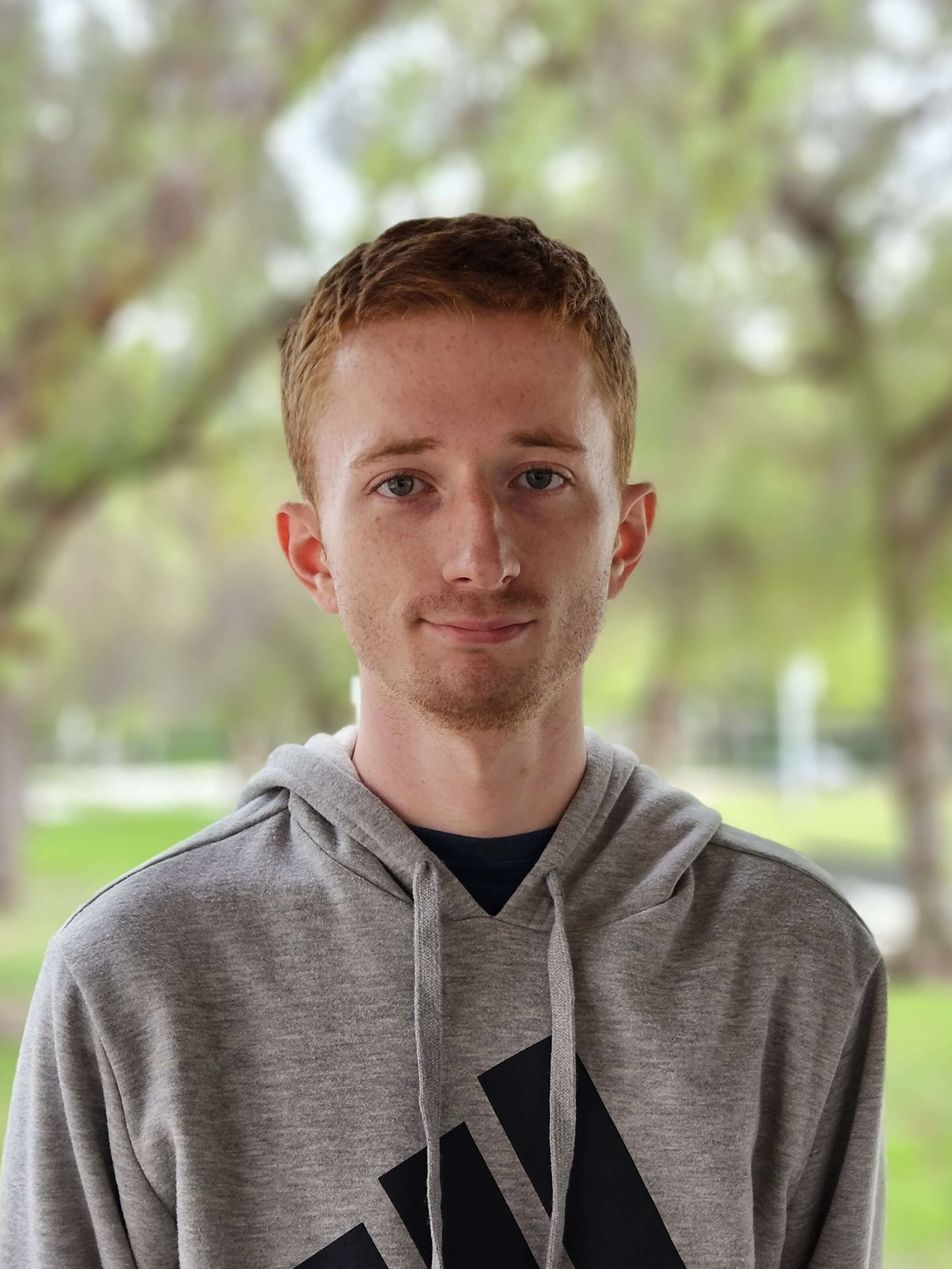
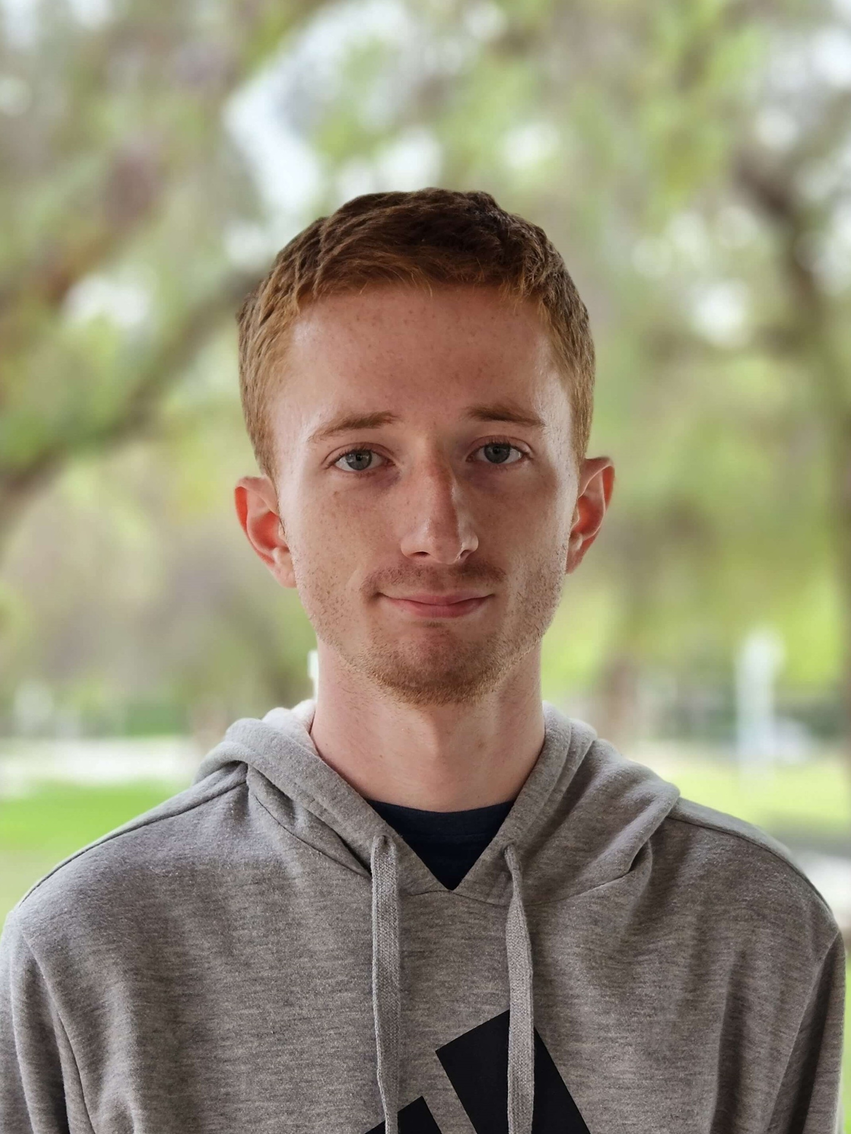
update photos for staff

diff --git a/src/data/data.tsx b/src/data/data.tsx
@@ -819,7 +819,7 @@ export const staffCategories: staffInfo[] = [
       {
         name: "Novaleigh Bui",
         role: "Chess Instructor",
-        image: "/images/Staff_Photos/staff_photo_default.png",
+        image: "/images/Staff_Photos/Novaleigh_Bui.jpg",
         icons: [FaChess],
       },
       {
@@ -839,6 +839,30 @@ export const staffCategories: staffInfo[] = [
         role: "Chess Instructor",
         image: "/images/Staff_Photos/Zayaan.jpg",
         icons: [FaChess],
+      },
+      {
+        name: "Bob Barone",
+        role: "Basketball Instructor",
+        image: "/images/Staff_Photos/staff_photo_default.png",
+        icons: [FaBasketballBall],
+      },
+      {
+        name: "Juan Carlos Mendoza",
+        role: "Basketball Instructor",
+        image: "/images/Staff_Photos/Juan.jpg",
+        icons: [FaBasketballBall],
+      },
+      {
+        name: "Jack Clark",
+        role: "Public Speaking Instructor",
+        image: "/images/Staff_Photos/Jack_Clark.jpg",
+        icons: [
+          FaPencil,
+          GiMicrophone,
+          FaBasketballBall,
+          FaTheaterMasks,
+          FaChess,
+        ],
       },
     ],
   },

diff --git a/src/components/SpeedDial.tsx b/src/components/SpeedDial.tsx
@@ -32,7 +32,7 @@ const SpeedDial: React.FC<SpeedDialProps> = ({ actions }) => {
 
   return (
     <div
-      className="fixed end-6 bottom-6 group flex items-center mb-2 space-x-2"
+      className="fixed end-6 z-20 bottom-6 group flex items-center mb-2 space-x-2"
       onMouseEnter={handleMouseEnter}
       onMouseLeave={handleMouseLeave}
     >

diff --git a/src/components/ModeButton.tsx b/src/components/ModeButton.tsx
@@ -44,6 +44,7 @@ const ModeButton = React.forwardRef<HTMLButtonElement, ButtonProps>(
         onClick={handleThemeToggle}
         aria-label="Toggle theme"
         className={className}
+        ref={ref}
       >
         {theme === "dark" ? (
           <Sun
